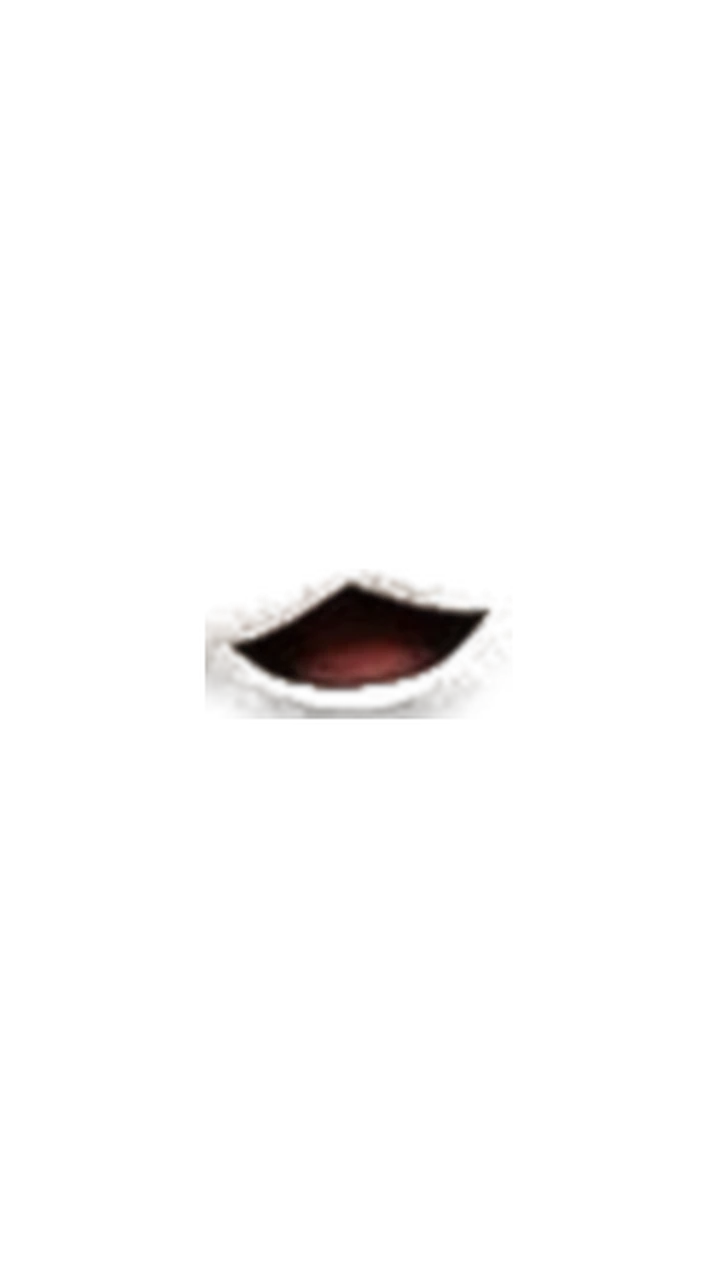
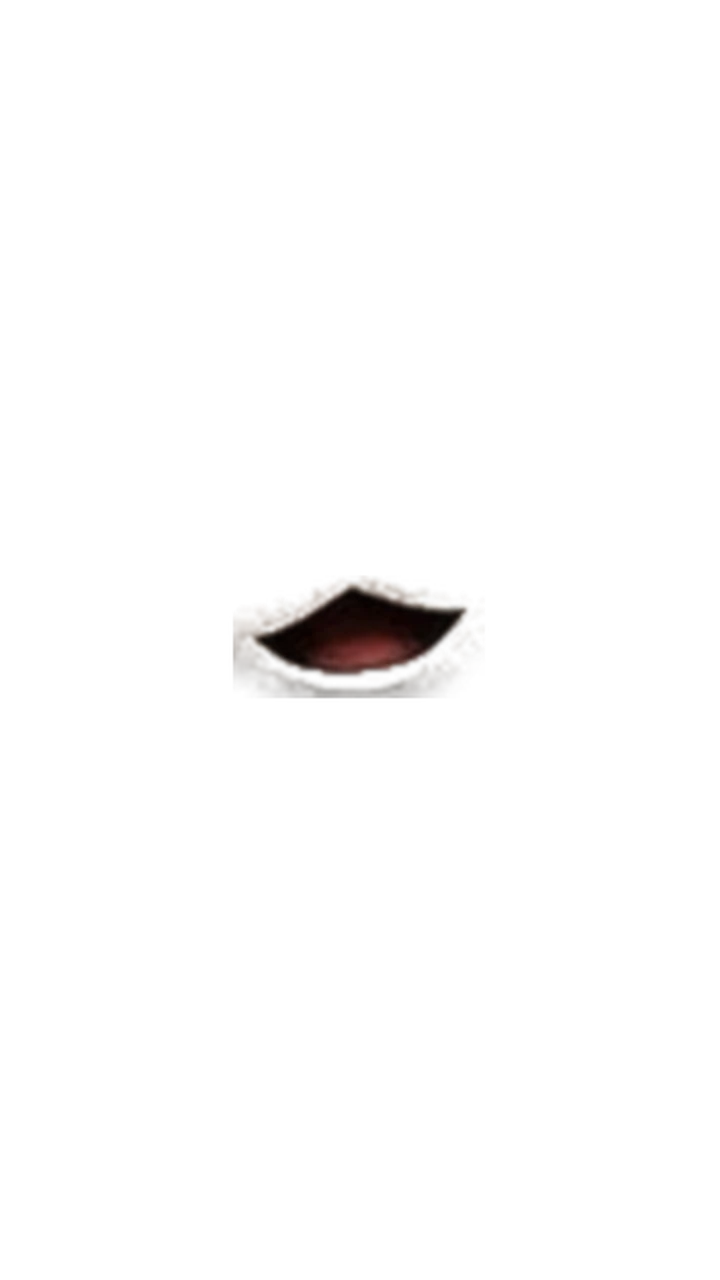
Days 1-2 playtest: screenshots after, a resume onto a cut keeps its shot, the bowl shot's foreground in frame
- design/refs/2026-11-28-playtest/after/: 390×844 phone screenshots (JPEG, scale 2) of the push into the black
  「待ちなさい。」, the mouth-only line, MONBAN over KIMORIN's shoulder, the reverse 「…キリンです。」, the press with its
  two cut-ins and シーン, the button shown, the Earth temple over the shoulder, day 1's universe with KIMORIN watching,
  the Moon temple at the bowl, うんちピンポンくん's hatch, the crane into the gate loop, the invitation edge to edge and
  the temple without the light discs
- StoryPlayer: starting on a still step (a resume, the test route) no longer lets the picture before, decoded late, come
  back over it (the cut lost its shot and a close-up covered the plate)
- The mouth-only still a little smaller, so his cheeks stay in frame on tall phones; KIMORIN's back in the bowl shot
  moved into frame

Claude-Session: https://claude.ai/code/session_01VLiVxXYEkJP9Xt5cBFE8CF

Changed region(s): [[0.275, 0.4375, 0.7028, 0.5625]]

diff --git a/apps/web/components/onboarding/StoryPlayer.tsx b/apps/web/components/onboarding/StoryPlayer.tsx
@@ -1139,7 +1139,9 @@ export function StoryPlayer({ steps, vars, initial, onProgress, onName, onNeo, l
     if (lastClock?.t === 'clock') onClock?.(lastClock.on);
     const lastBack = before.find((s) => s.t === 'still' || s.t === 'video' || s.t === 'loop' || s.t === 'bgvideo' || s.t === 'black');
     const onStill = lastBack?.t === 'still';
-    if (lastBack?.t === 'still') {
+    // landing on a still step itself: that step puts its picture (and its shot) up — the one before, decoded late, must not
+    // come back over it (it did: the cut's shot was lost and a speaker's close-up covered the plate)
+    if (lastBack?.t === 'still' && cur?.t !== 'still') {
       // from black, once the picture is decoded (QA 12 R40: it came up in two or three frames); the motion behind is hidden
       const img = lastBack.image;
       if (lastBack.shot) setStillShots({ [img]: lastBack.shot });

diff --git a/apps/web/lib/onboarding/shots.ts b/apps/web/lib/onboarding/shots.ts
@@ -233,8 +233,8 @@ export const SHOTS: Record<string, Shot> = {
       { src: 'obolon', x: 43, y: 56, h: 10, float: true },
       {
         src: 'kb-ots',
-        x: 86,
-        y: 116,
+        x: 70,
+        y: 118,
         h: 66,
         flip: true,
         blur: 4.5,

diff --git a/scripts/playtest/build.py b/scripts/playtest/build.py
@@ -34,7 +34,7 @@ def gate_open():
 
 # the part of s/d2-pinpon-end under his eyes: the cheeks' blue swirls, the mouth, the chin (x0, y0, x1, y1)
 CROP = (246, 550, 534, 680)
-SCALE = 2.5
+SCALE = 2.05
 CENTRE_Y = 0.47  # the pool of light a little above the middle (the speech bubble sits low)
 
 
